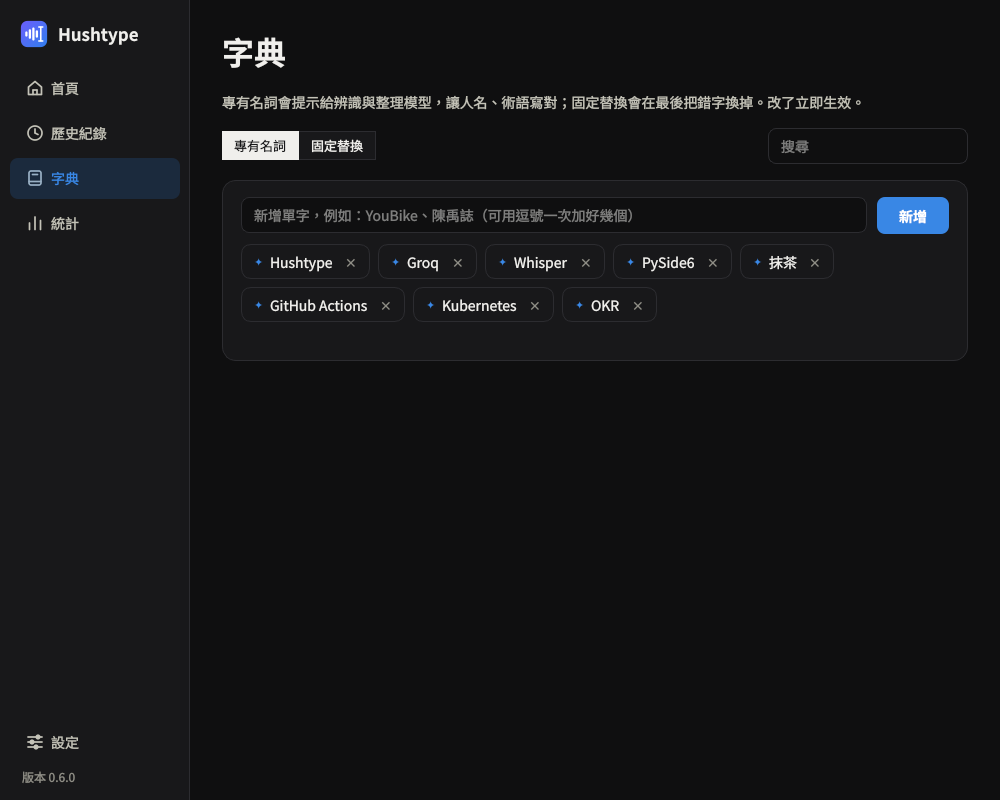
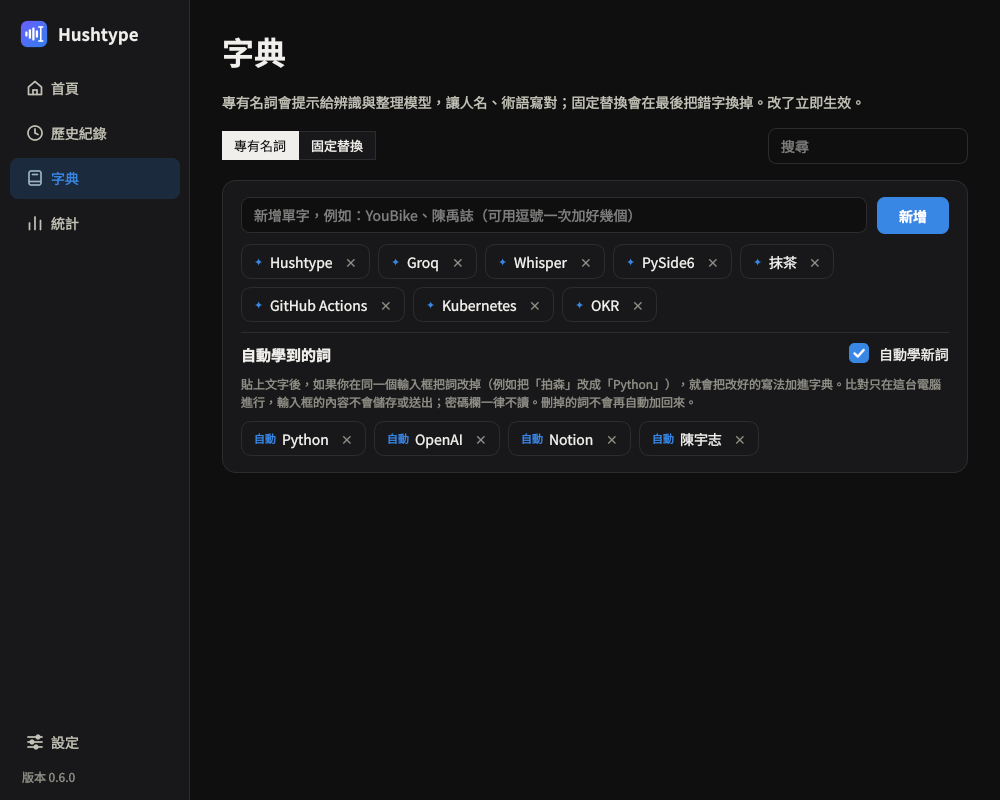
Release 0.7.0 with auto-learned dictionary words
Claude-Session: https://claude.ai/code/session_01KYLU1MHHqcngSmBRbbwZDY

Changed region(s): [[0.217, 0.4062, 0.961, 0.5625]]

diff --git a/hushtype/__init__.py b/hushtype/__init__.py
@@ -3,4 +3,4 @@
 APP_NAME = "Hushtype"
 APP_NAME_ZH = "悄聲"
 
-__version__ = "0.6.0"
+__version__ = "0.7.0"

diff --git a/README.md b/README.md
@@ -28,6 +28,7 @@
 - **AI 整理**：去除「嗯、那個、就是」等贅字，處理說錯改口，加全形標點，長內容自動分段與條列
 - **繁體中文與台灣用語**，英文單字與專有名詞保留原文
 - **字典**：加入人名、術語讓辨識寫對，或設定固定替換（例如 `拍森 → Python`）
+- **自動學新詞**：貼上後你在同一個輸入框把「拍森」改成「Python」，下次就會寫對。比對只在本機進行，輸入框內容不儲存也不送出，密碼欄不讀
 - **錄音小視窗**：錄音時螢幕下方出現五條跟著聲音跳動的音波，處理時顯示「轉譯中」，貼上後消失
 - **找不到輸入框時不會弄丟文字**：螢幕下方會跳出文字與「複製」按鈕；辨識失敗時錄音會保留，可以按「重試」
 - **快捷鍵可用鍵盤或滑鼠中鍵／側鍵**，而且會被攔下，不會同時觸發其他程式（例如 F12 不會打開開發者工具）
@@ -119,6 +120,7 @@ hushtype/
   updater.py      檢查、下載、安裝新版
   stats.py        本機使用紀錄（SQLite）與彙總
   history.py      歷史紀錄（記憶體或 DPAPI 加密的 SQLite）
+  learning.py     從使用者的修改自動學新詞（本機比對）
   gui/            主視窗、系統匣、錄音小視窗、複製框、首頁／歷史／字典／統計／設定頁
 packaging/        PyInstaller + Inno Setup 打包、簽章腳本
 ```

diff --git a/SECURITY.md b/SECURITY.md
@@ -12,6 +12,7 @@
 | 錄音 | 只在記憶體 | 送到你在設定頁選擇的語音辨識服務 |
 | 辨識出的文字 | 預設只在記憶體，關閉程式即清除 | 送到你選擇的文字整理服務（可關閉） |
 | 歷史紀錄（只有在「歷史紀錄」頁選擇保留 1 天以上時） | `%APPDATA%\Hushtype\history.db`，每筆以 Windows DPAPI 加密，只有你的 Windows 帳號能解開；超過保留期限自動刪除 | 不會 |
+| 自動學新詞時讀取的輸入框文字（貼上後約一分鐘內、游標附近；密碼欄不讀） | 只在記憶體比對，比完即丟，只留下改好的那個詞 | 不會 |
 | API 金鑰 | Windows 認證管理員 | 只在呼叫該服務時當作驗證送出 |
 | 使用統計（時間、字數，不含內容） | `%APPDATA%\Hushtype\usage.db` | 不會 |
 | 設定 | `%APPDATA%\Hushtype\config.toml` | 不會 |
